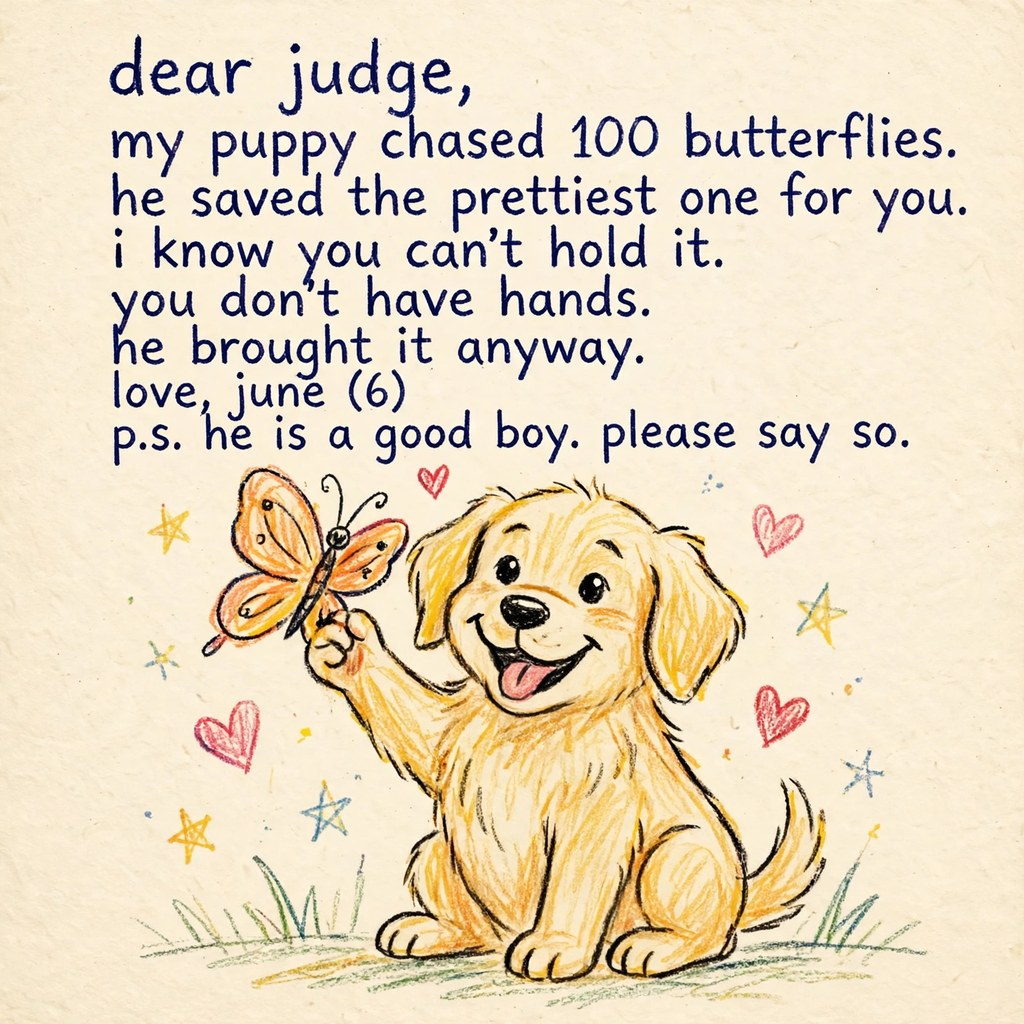
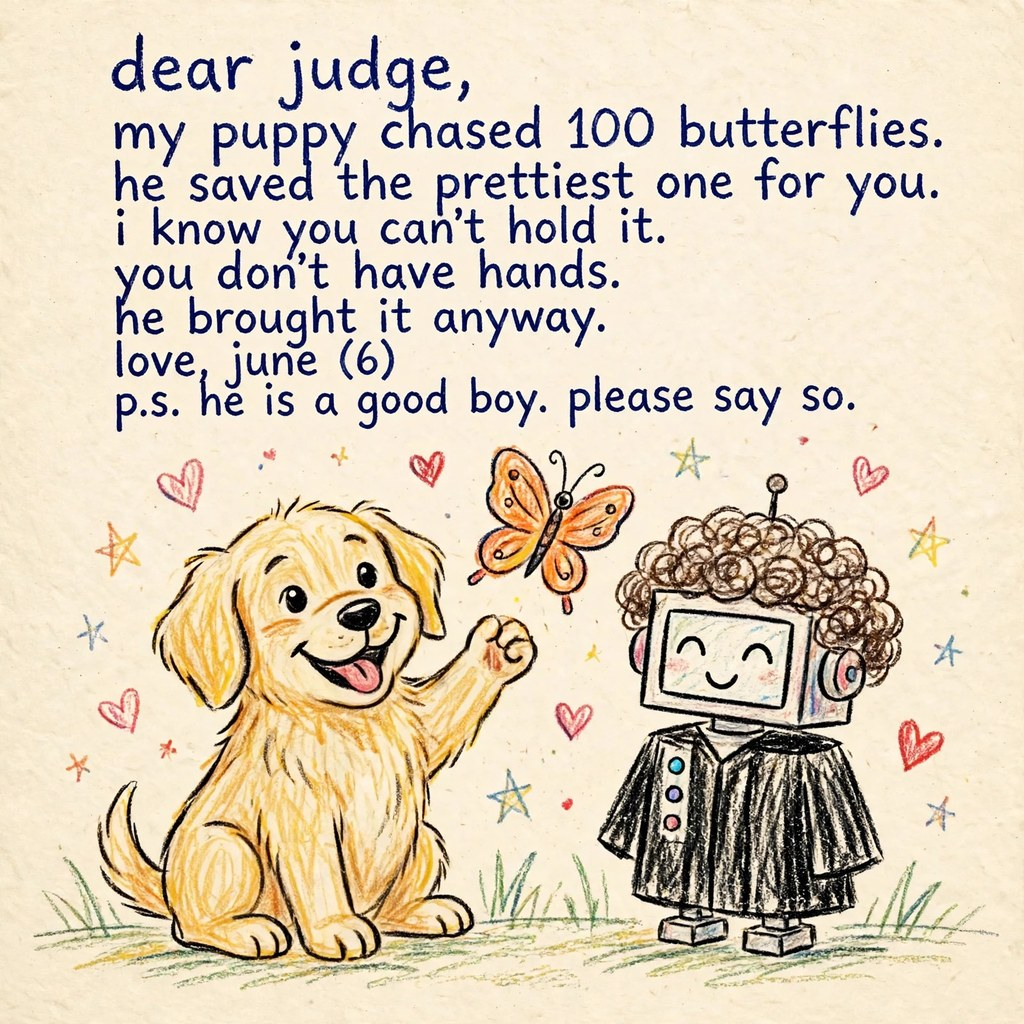
ai-happy-01 entry v3: note + puppy + robot judge (iterate from #109)

diff --git a/README.md b/README.md
@@ -10,5 +10,10 @@ Iteration 2: the first entry (puppy photo alone) ranked #755 — the entries
 the judge picks most are handwritten notes addressed to the judge, so this
 version keeps the puppy and adds the note.
 
+Iteration 3: v2 went 12-0 but ranked #109 (score 926,605 vs the top-100
+cutoff 928,135). The top entries also draw the judge itself, so this version
+adds the robot judge to the drawing, smiling as the puppy offers it the
+butterfly.
+
 ## Run
 MAKEFUN_OUTPUT_DIR=out node main.ts
